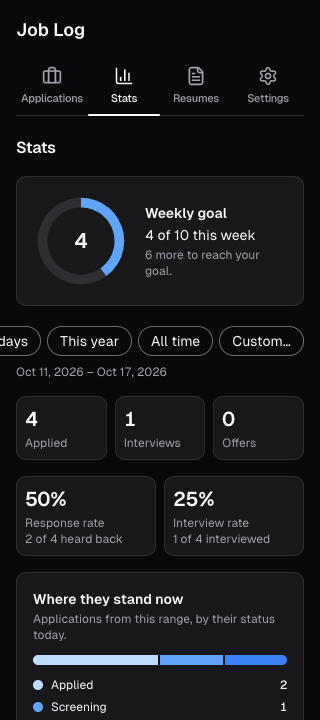
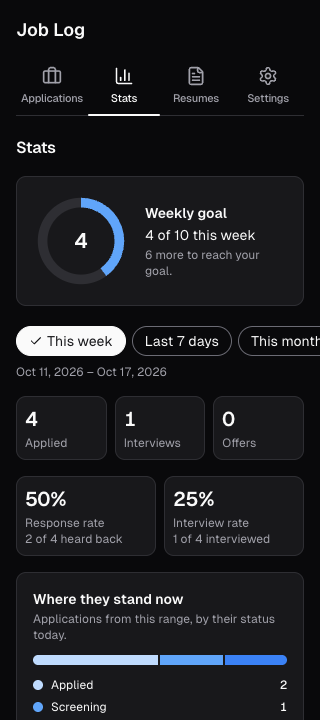
fix(m6): fuller copy deck, comparable screenshot pairs, M6 docs say done
- copy deck: templates starting with a substitution, the bundled pages' HTML (not the quoted
  licenses), and each file under its own screen
- screenshots: a fresh panel per theme, so the light pass's state can't leak into the dark one
- CLAUDE.md, milestones.md, review README: M6 is done (v0.6.0); review decisions land as v0.6.x

Changed region(s): [[0.0, 0.4278, 1.0, 0.5194]]

diff --git a/review/copy-deck.ts b/review/copy-deck.ts
@@ -25,14 +25,16 @@ const SCREENS: [string, RegExp][] = [
   ],
   [
     'Add / Edit form',
-    /ApplicationForm|SourceField|Combobox|ResumeField|DuplicateWarning|applicationInput|formDefaults/,
+    /ApplicationForm|SourceField|Combobox|ResumeField|DuplicateWarning|applicationInput|formDefaults|lib\/applications\.ts/,
   ],
   ['Detail', /ApplicationDetail|StatusTimeline|MoreMenu/],
-  ['Stats', /Stats|stats\.ts|GoalRing/],
-  ['Resumes', /Resume|resumes\.ts|dropGuard|openResume/],
-  ['Settings', /Settings|deleteAll|settings\.ts|theme/],
+  ['Stats', /Stats|stats\.ts|GoalRing|DateRangeFields/],
+  ['Resumes', /resume|dropGuard/i],
+  ['Settings', /Settings|deleteAll|settings\.ts|theme|privacy|notices/],
   ['Shared (sheets, toasts, tabs)', /Sheet|Toast|Tab|.*/],
 ];
+
+const screenOf = (file: string) => SCREENS.find(([, pattern]) => pattern.test(file))![0];
 
 function files(dir: string): string[] {
   return fs.readdirSync(path.join(ROOT, dir), { withFileTypes: true }).flatMap((entry) => {
@@ -78,7 +80,7 @@ for (const file of SOURCES.flatMap(files)) {
     const clean = text.replace(/\s+/g, ' ').trim();
     if (!clean || !/[A-Za-z]/.test(clean)) return;
     const line = source.getLineAndCharacterOfPosition(node.getStart()).line + 1;
-    const screen = SCREENS.find(([, pattern]) => pattern.test(file))![0];
+    const screen = screenOf(file);
     const list = found.get(screen) ?? [];
     if (!list.some((entry) => entry.text === clean))
       list.push({ text: clean, where: `${file}:${line}` });
@@ -108,13 +110,33 @@ for (const file of SOURCES.flatMap(files)) {
         ts.isJsxAttribute(node.parent) && node.parent.name.getText(source) === 'className';
       if ((sentenceLike(node.text) || inLabels(node, source)) && !className) add(node, node.text);
     } else if (ts.isTemplateExpression(node)) {
-      const text = node.getText(source).slice(1, -1);
-      if (sentenceLike(node.head.text || text)) add(node, text);
+      // Judged with each substitution as a word, so `${name} is back.` counts too.
+      const words =
+        node.head.text + node.templateSpans.map((span) => `Name${span.literal.text}`).join('');
+      if (sentenceLike(words)) add(node, node.getText(source).slice(1, -1));
       return;
     }
     ts.forEachChild(node, visit);
   };
   visit(source);
+}
+
+// The bundled pages' own copy: their titles and the text in their markup.
+for (const dir of fs.readdirSync(path.join(ROOT, 'entrypoints'))) {
+  const file = path.join('entrypoints', dir, 'index.html');
+  if (!fs.existsSync(path.join(ROOT, file))) continue;
+  const html = fs.readFileSync(path.join(ROOT, file), 'utf8');
+  const lines = html.split('\n');
+  const list = found.get(screenOf(file)) ?? [];
+  // License texts (in <pre>) are quoted, not copy.
+  const markup = html.replace(/<(script|style|pre)[\s\S]*?<\/\1>/g, '');
+  for (const match of markup.matchAll(/>([^<>]+)</g)) {
+    const text = match[1]!.replace(/\s+/g, ' ').trim();
+    if (!/[A-Za-z]/.test(text) || list.some((entry) => entry.text === text)) continue;
+    const line = lines.findIndex((l) => l.includes(text.slice(0, 30))) + 1;
+    list.push({ text, where: `${file}:${line || 1}` });
+  }
+  found.set(screenOf(file), list);
 }
 
 let out = `# Copy deck\n\nEvery user-facing string in the side panel and its pages, by screen, generated by \`review/copy-deck.ts\` from the source (so it can be regenerated after copy changes). \`\${…}\` is filled in at run time. The tone rule (spec §4.7): factual and encouraging; rejections never highlighted.\n\nSuggested changes for the review are in [README.md](README.md#copy).\n`;

diff --git a/review/screenshots.spec.ts b/review/screenshots.spec.ts
@@ -89,6 +89,9 @@ test('design-review screenshots', async ({ session }) => {
   await page.waitForTimeout(6_000);
 
   for (const theme of ['light', 'dark'] as const) {
+    // A fresh panel each pass, so state left by the light pass (scrolled chips, focus) can't
+    // differ between the two shots of a screen. The theme is a setting, so it stays.
+    await page.reload();
     await setTheme(page, theme === 'light' ? 'Light' : 'Dark');
     // Picking the theme scrolled the tab: show it from the top.
     await scrollPanel(page, 0);

diff --git a/docs/design-review/copy-deck.md b/docs/design-review/copy-deck.md
@@ -43,10 +43,12 @@ Suggested changes for the review are in [README.md](README.md#copy).
 | Jobs without a date applied (such as Saved ones) are hidden. | `components/ListControls.tsx:264` |
 | Status | `components/ListControls.tsx:286` |
 | None chosen: every status shows. | `components/ListControls.tsx:315` |
+| ${statuses.length} chosen. | `components/ListControls.tsx:315` |
 | Status: ${STATUS_LABELS[application.status]}. Change status | `components/StatusChip.tsx:31` |
 | (current) | `components/StatusSheet.tsx:183` |
 | hasn't got a date applied yet. | `components/StatusSheet.tsx:237` |
 | means you applied, so when was it? | `components/StatusSheet.tsx:237` |
+| ${id}-error ${id}-why | `components/StatusSheet.tsx:249` |
 | Set date | `components/StatusSheet.tsx:272` |
 | Skip | `components/StatusSheet.tsx:275` |
 | Choose another status | `components/StatusSheet.tsx:280` |
@@ -56,6 +58,7 @@ Suggested changes for the review are in [README.md](README.md#copy).
 | Restored ${application.company}. | `entrypoints/sidepanel/App.tsx:218` |
 | Couldn't undo the delete. | `entrypoints/sidepanel/App.tsx:227` |
 | Moved ${application.company} to ${STATUS_LABELS[pick.status]}. | `entrypoints/sidepanel/App.tsx:242` |
+| ${application.company} is back to ${STATUS_LABELS[change.before.status]}. | `entrypoints/sidepanel/App.tsx:250` |
 | Couldn't undo: ${application.company} changed since. | `entrypoints/sidepanel/App.tsx:251` |
 | Couldn't undo the status change. | `entrypoints/sidepanel/App.tsx:264` |
 | Couldn't change the status of ${application.company}: ${error.fields.appliedAt ?? 'check the date'} | `entrypoints/sidepanel/App.tsx:274` |
@@ -123,6 +126,9 @@ Suggested changes for the review are in [README.md](README.md#copy).
 | Discard changes and view existing | `components/DuplicateWarning.tsx:56` |
 | View existing | `components/DuplicateWarning.tsx:56` |
 | Save anyway | `components/DuplicateWarning.tsx:59` |
+| ${resume.name} · ${formatLabel(resume.fileName)} · ${formatTimestampDate(resume.createdAt)} | `components/ResumeField.tsx:21` |
+| ${resume.name} (archived) | `components/ResumeField.tsx:73` |
+| ${snapshot ?? 'Resume'} (file not available) | `components/ResumeField.tsx:75` |
 | Resume | `components/ResumeField.tsx:84` |
 | No resume | `components/ResumeField.tsx:96` |
 | Upload new resume | `components/ResumeField.tsx:105` |
@@ -137,6 +143,7 @@ Suggested changes for the review are in [README.md](README.md#copy).
 | Month | `lib/applicationInput.ts:14` |
 | Hour | `lib/applicationInput.ts:15` |
 | Company site | `lib/applicationInput.ts:22` |
+| ${label} must be ${max.toLocaleString()} characters or fewer. | `lib/applicationInput.ts:133` |
 | The date applied can't be in the future. | `lib/applicationInput.ts:148` |
 | Enter the job posting URL. | `lib/applicationInput.ts:161` |
 | Enter a valid web address (http or https). | `lib/applicationInput.ts:162` |
@@ -149,15 +156,19 @@ Suggested changes for the review are in [README.md](README.md#copy).
 | Choose per year, month or hour. | `lib/applicationInput.ts:222` |
 | Choose a status. | `lib/applicationInput.ts:238` |
 | Enter the date you applied. | `lib/applicationInput.ts:247` |
+| That resume isn't available any more. Choose another. | `lib/applications.ts:260` |
+| This entry changed meanwhile. Check the date and try again. | `lib/applications.ts:406` |
 
 ## Detail
 
 | Text | Where |
 | --- | --- |
 | Back to applications | `components/ApplicationDetail.tsx:76` |
+| ${slide} flex flex-col gap-3 | `components/ApplicationDetail.tsx:86` |
 | This application isn't available | `components/ApplicationDetail.tsx:90` |
 | It may have been deleted in another window. | `components/ApplicationDetail.tsx:93` |
 | Couldn't delete. Please try again. | `components/ApplicationDetail.tsx:104` |
+| ${slide} flex min-w-0 flex-col gap-4 | `components/ApplicationDetail.tsx:112` |
 | Edit | `components/ApplicationDetail.tsx:128` |
 | More actions for ${app.company} | `components/ApplicationDetail.tsx:135` |
 | Open job posting on ${postingSite(href)} | `components/ApplicationDetail.tsx:154` |
@@ -188,19 +199,24 @@ Suggested changes for the review are in [README.md](README.md#copy).
 
 | Text | Where |
 | --- | --- |
+| Custom dates | `components/DateRangeFields.tsx:29` |
 | Closed – not selected | `components/StatsCharts.tsx:16` |
 | Where they stand now | `components/StatsCharts.tsx:26` |
 | Applications from this range, by their status today. | `components/StatsCharts.tsx:27` |
 | Week of ${formatLocalDate(from)} | `components/StatsCharts.tsx:74` |
 | No applications in this range yet. | `components/StatsCharts.tsx:104` |
+| ${total} ${total === 1 ? 'application' : 'applications'} in this range. The busiest ${per} was ${unit === 'week' ? busiestName.replace(/^Week/, 'the week') : busiestName}, with ${max}. | `components/StatsCharts.tsx:105` |
 | Applications per ${per} | `components/StatsCharts.tsx:112` |
 | Applications per | `components/StatsCharts.tsx:144` |
 | Applications | `components/StatsCharts.tsx:148` |
+| ${count} of ${goal} ${goal === 1 ? 'application' : 'applications'} this week | `components/StatsCharts.tsx:174` |
 | Weekly goal | `components/StatsCharts.tsx:219` |
 | of | `components/StatsCharts.tsx:223` |
 | this week | `components/StatsCharts.tsx:223` |
+| ${remaining} more to reach your goal. | `components/StatsCharts.tsx:227` |
 | Goal reached, and ${count - goal} beyond it. | `components/StatsCharts.tsx:229` |
 | Goal reached. Nice work. | `components/StatsCharts.tsx:230` |
+| ${formatLocalDate(from)} – ${formatLocalDate(to)} | `components/StatsPanel.tsx:31` |
 | Stats | `components/StatsPanel.tsx:83` |
 | Your stats show up here once you log applications. Every one you send counts. | `components/StatsPanel.tsx:106` |
 | Headline numbers | `components/StatsPanel.tsx:111` |
@@ -217,6 +233,7 @@ Suggested changes for the review are in [README.md](README.md#copy).
 | Both dates are included. | `components/StatsPanel.tsx:226` |
 | Apply | `components/StatsPanel.tsx:229` |
 | None applied in range | `components/StatsPanel.tsx:299` |
+| ${rate.count} of ${rate.total} ${outcome} | `components/StatsPanel.tsx:299` |
 | No rate yet | `components/StatsPanel.tsx:312` |
 | this-week | `lib/stats.ts:31` |
 | This week | `lib/stats.ts:31` |
@@ -256,7 +273,10 @@ Suggested changes for the review are in [README.md](README.md#copy).
 | Upload and use | `components/ResumeUpload.tsx:286` |
 | Cancel upload | `components/ResumeUpload.tsx:290` |
 | Archived ${resume.name}. | `components/ResumesPanel.tsx:83` |
+| ${resume.name} is back in your resumes. | `components/ResumesPanel.tsx:83` |
 | Couldn't change ${resume.name}. It may have been deleted. | `components/ResumesPanel.tsx:87` |
+| ${resume.name} is used by applications, so it stays archived. | `components/ResumesPanel.tsx:98` |
+| ${resume.name} is used by applications, so it was archived instead. | `components/ResumesPanel.tsx:100` |
 | Deleted ${resume.name}. | `components/ResumesPanel.tsx:107` |
 | Restored ${resume.name}. | `components/ResumesPanel.tsx:112` |
 | Couldn't restore ${resume.name}. | `components/ResumesPanel.tsx:113` |
@@ -274,12 +294,16 @@ Suggested changes for the review are in [README.md](README.md#copy).
 | Saved. | `components/ResumesPanel.tsx:259` |
 | No resumes yet. Upload the versions you send, so you always know which one went with each application. | `components/ResumesPanel.tsx:282` |
 | Upload your first resume | `components/ResumesPanel.tsx:287` |
+| ${resume.name} isn't available any more. | `components/ResumesPanel.tsx:313` |
+| ${formatLabel(resume.fileName)} · ${formatBytes(resume.size)} · Uploaded ${formatTimestampDate(resume.createdAt)} | `components/ResumesPanel.tsx:315` |
 | ${verb} ${resume.name} | `components/ResumesPanel.tsx:324` |
 | More actions for ${resume.name} | `components/ResumesPanel.tsx:344` |
 | Couldn't save. It may have been deleted. | `components/ResumesPanel.tsx:457` |
 | Rename resume | `components/ResumesPanel.tsx:477` |
 | Saving… | `components/ResumesPanel.tsx:487` |
 | Rename ${resume.name} | `components/ResumesPanel.tsx:495` |
+| This resume isn't available. It may have been deleted. | `entrypoints/resume-viewer/main.ts:23` |
+| Couldn't open this resume. | `entrypoints/resume-viewer/main.ts:35` |
 | Choose a file of 10 MB or less. | `lib/resumes.ts:75` |
 | Choose a PDF, DOCX, DOC, TXT or RTF file. | `lib/resumes.ts:85` |
 | This file is empty. | `lib/resumes.ts:86` |
@@ -287,6 +311,8 @@ Suggested changes for the review are in [README.md](README.md#copy).
 | Enter a name for this resume. | `lib/resumes.ts:116` |
 | Use ${MAX_RESUME_NAME_LENGTH} characters or fewer. | `lib/resumes.ts:118` |
 | Use ${MAX_RESUME_NOTE_LENGTH} characters or fewer. | `lib/resumes.ts:121` |
+| ${resume.name} \n ${resume.fileName} | `lib/resumes.ts:176` |
+| Resume | `entrypoints/resume-viewer/index.html:6` |
 
 ## Settings
 
@@ -329,28 +355,48 @@ Suggested changes for the review are in [README.md](README.md#copy).
 | Privacy policy | `components/SettingsPanel.tsx:590` |
 | Third-party notices | `components/SettingsPanel.tsx:596` |
 | Job Log | `components/SettingsPanel.tsx:601` |
+| Job Log: third-party notices | `entrypoints/notices/index.html:6` |
+| Job Log bundles the following open-source work. Nothing is loaded from the internet. | `entrypoints/notices/index.html:32` |
+| Geist font | `entrypoints/notices/index.html:34` |
+| Geist Sans, a Latin subset, by Vercel in collaboration with basement.studio ( | `entrypoints/notices/index.html:36` |
+| vercel.com/font | `entrypoints/notices/index.html:37` |
+| ). Licensed under the SIL Open Font License 1.1. | `entrypoints/notices/index.html:39` |
+| Lucide icons | `entrypoints/notices/index.html:135` |
+| Icons from Lucide ( | `entrypoints/notices/index.html:137` |
+| lucide.dev | `entrypoints/notices/index.html:137` |
+| ), version 0.460.0. Licensed under the ISC License. | `entrypoints/notices/index.html:1` |
+| Job Log: privacy policy | `entrypoints/privacy/index.html:6` |
+| Draft. This page is a placeholder; the final policy is written before Job Log is published on the Chrome Web Store. | `entrypoints/privacy/index.html:29` |
+| Your data stays on this device | `entrypoints/privacy/index.html:32` |
+| Job Log stores the applications you log, the resumes you upload and your settings only in this browser, on this device. It has no account and no server, and it never sends your data anywhere. | `entrypoints/privacy/index.html:34` |
+| Nothing is collected | `entrypoints/privacy/index.html:38` |
+| Job Log doesn't collect, sell or share any information, and it uses no analytics or tracking. | `entrypoints/privacy/index.html:40` |
+| Reading pages only when you ask | `entrypoints/privacy/index.html:43` |
+| Job Log reads a web page only when you choose "Add job to Job Log" or press its shortcut, to fill in the form for you. It can't read pages otherwise. | `entrypoints/privacy/index.html:45` |
+| Deleting your data | `entrypoints/privacy/index.html:48` |
+| Settings → Your data → Delete all data removes everything. Removing the extension removes it too. | `entrypoints/privacy/index.html:50` |
 
 ## Shared (sheets, toasts, tabs)
 
 | Text | Where |
 | --- | --- |
-| Custom dates | `components/DateRangeFields.tsx:29` |
+| ${className} field-sizing-content max-h-[18rem] min-h-[4.75rem] ${ FIELD_SIZING ? 'resize-y' : 'resize-none' } | `components/AutoGrowTextarea.tsx:53` |
 | Back | `components/Sheet.tsx:250` |
 | Close | `components/Sheet.tsx:270` |
 | Discard your changes? | `components/Sheet.tsx:304` |
 | Discard | `components/Sheet.tsx:315` |
 | Keep editing | `components/Sheet.tsx:323` |
+| ${index * 100}% 0 | `components/TabBar.tsx:94` |
 | Dismiss | `components/Toast.tsx:188` |
 | Add job to Job Log | `entrypoints/background.ts:11` |
 | Add linked job to Job Log | `entrypoints/background.ts:13` |
-| This resume isn't available. It may have been deleted. | `entrypoints/resume-viewer/main.ts:23` |
-| Couldn't open this resume. | `entrypoints/resume-viewer/main.ts:35` |
-| That resume isn't available any more. Choose another. | `lib/applications.ts:260` |
-| This entry changed meanwhile. Check the date and try again. | `lib/applications.ts:406` |
 | This date can't be in the future. | `lib/dates.ts:43` |
 | Enter a valid date. | `lib/dates.ts:46` |
 | year | `lib/format.ts:3` |
 | month | `lib/format.ts:3` |
 | hour | `lib/format.ts:3` |
+| ${salaryCurrency} ${plain(value)} | `lib/format.ts:33` |
 | From ${money(min)} | `lib/format.ts:42` |
 | Up to ${money(max!)} | `lib/format.ts:43` |
+| ${range} per ${PERIOD_LABELS[salaryPeriod]} | `lib/format.ts:44` |
+| Job Log | `entrypoints/sidepanel/index.html:6` |

diff --git a/CLAUDE.md b/CLAUDE.md
@@ -25,7 +25,7 @@ Gotchas:
 
 ## Architecture (from spec.md §3–§9)
 
-**M6 redesign in progress:** `spec.md` already describes the M6 UI (sheets, sliding tabs, the new list row and filters, the form in a sheet). The sections below describe the code as it is now, and each M6 PR updates the parts it changes. Until then, where they disagree about UI, build what the spec says.
+**UI:** the M6 redesign is done (v0.6.0), so the sections below describe the code. Decisions from the post-M6 design review (`docs/design-review/`) land as v0.6.x follow-up PRs before M7, each updating `spec.md` and these sections.
 
 **Local-first, no network.** All data lives in the browser. Applications and Resumes (file Blobs) are in IndexedDB via Dexie (`lib/db.ts`). Settings are in `chrome.storage.local`. Never add fetch calls, analytics, remote code, or host permissions: the Web Store privacy pitch depends on this.
 

diff --git a/docs/design-review/README.md b/docs/design-review/README.md
@@ -1,6 +1,6 @@
 # Design review after M6
 
-Prepared for the owner's review before M7 (milestones.md, "After M6: owner design review"). The decisions go into spec.md and are applied in M6 follow-up PRs before M7 starts.
+Prepared for the owner's review before M7 (milestones.md, "After M6: owner design review"). M6 itself is done and tagged v0.6.0; the decisions go into spec.md and are applied in follow-up PRs (v0.6.x) before M7 starts.
 
 - **Screenshots:** every screen at 320px in light and dark, below. Regenerate with `npm run build && npm run screenshots` (`review/screenshots.spec.ts`; dates are fixed to Fri Oct 16 2026).
 - **Copy deck:** [copy-deck.md](copy-deck.md), every user-facing string by screen with its source line. Regenerate with `node review/copy-deck.ts`.

diff --git a/milestones.md b/milestones.md
@@ -90,7 +90,7 @@ Before M7 starts, the owner reviews the whole app and makes design decisions. Cl
 - a **copy deck** of every user-facing string, factual and encouraging;
 - a **name shortlist** of about 8 names with a Web Store availability check (the icon follows the name).
 
-Claude then applies the decisions (in M6 follow-up PRs) before starting M7.
+Claude then applies the decisions (in follow-up PRs, released as v0.6.x) before starting M7.
 
 ## M7 — Export & import
 **Slice:** Export a JSON backup → "Delete all data" → import with Replace → everything is back, including resume files that open.
